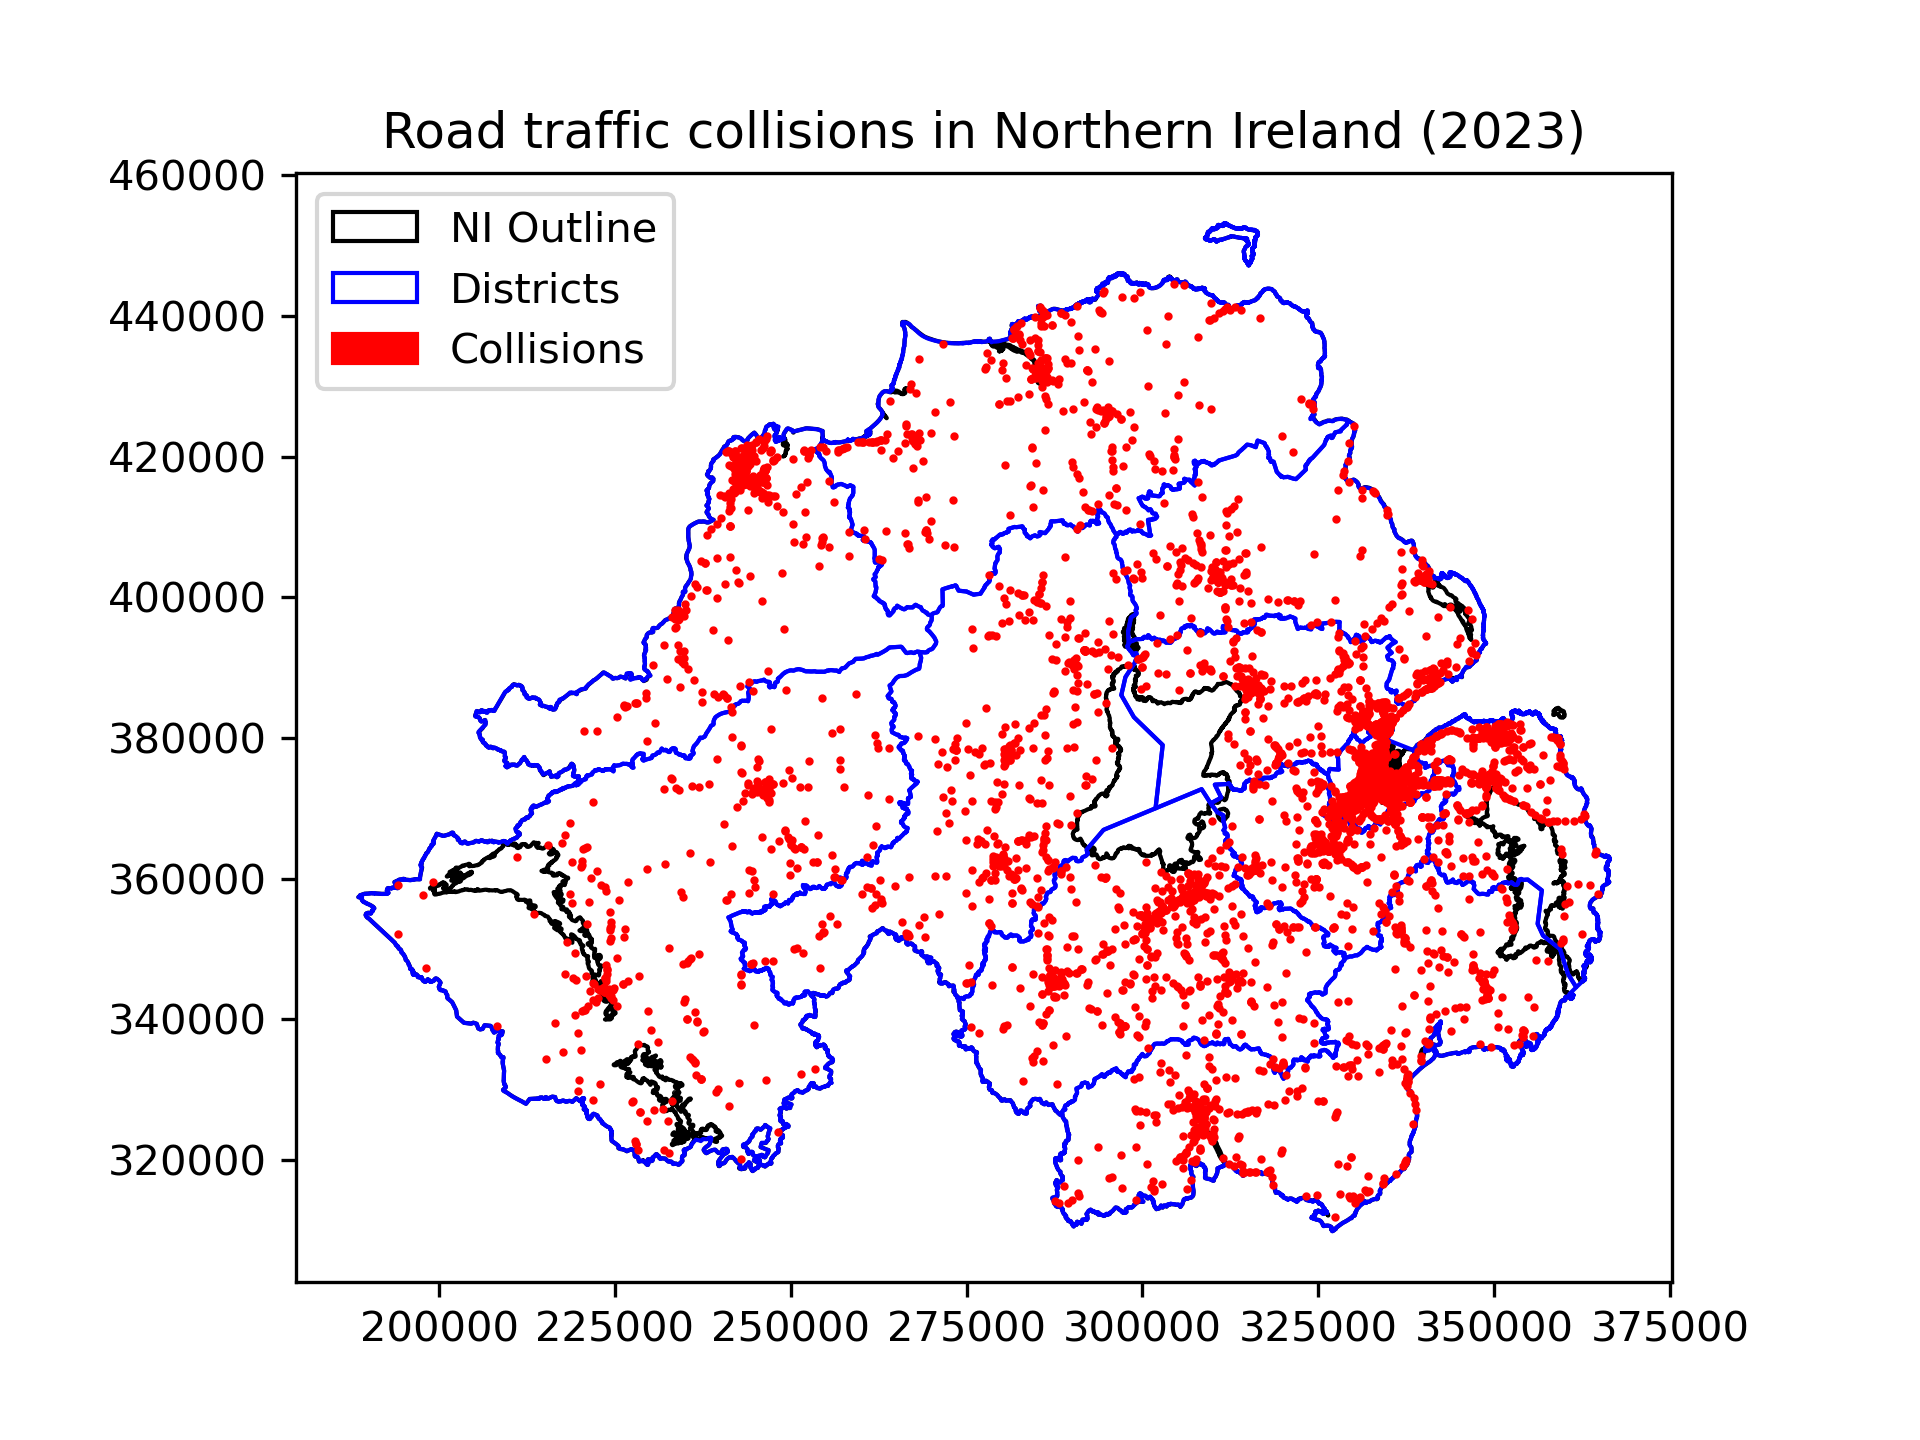
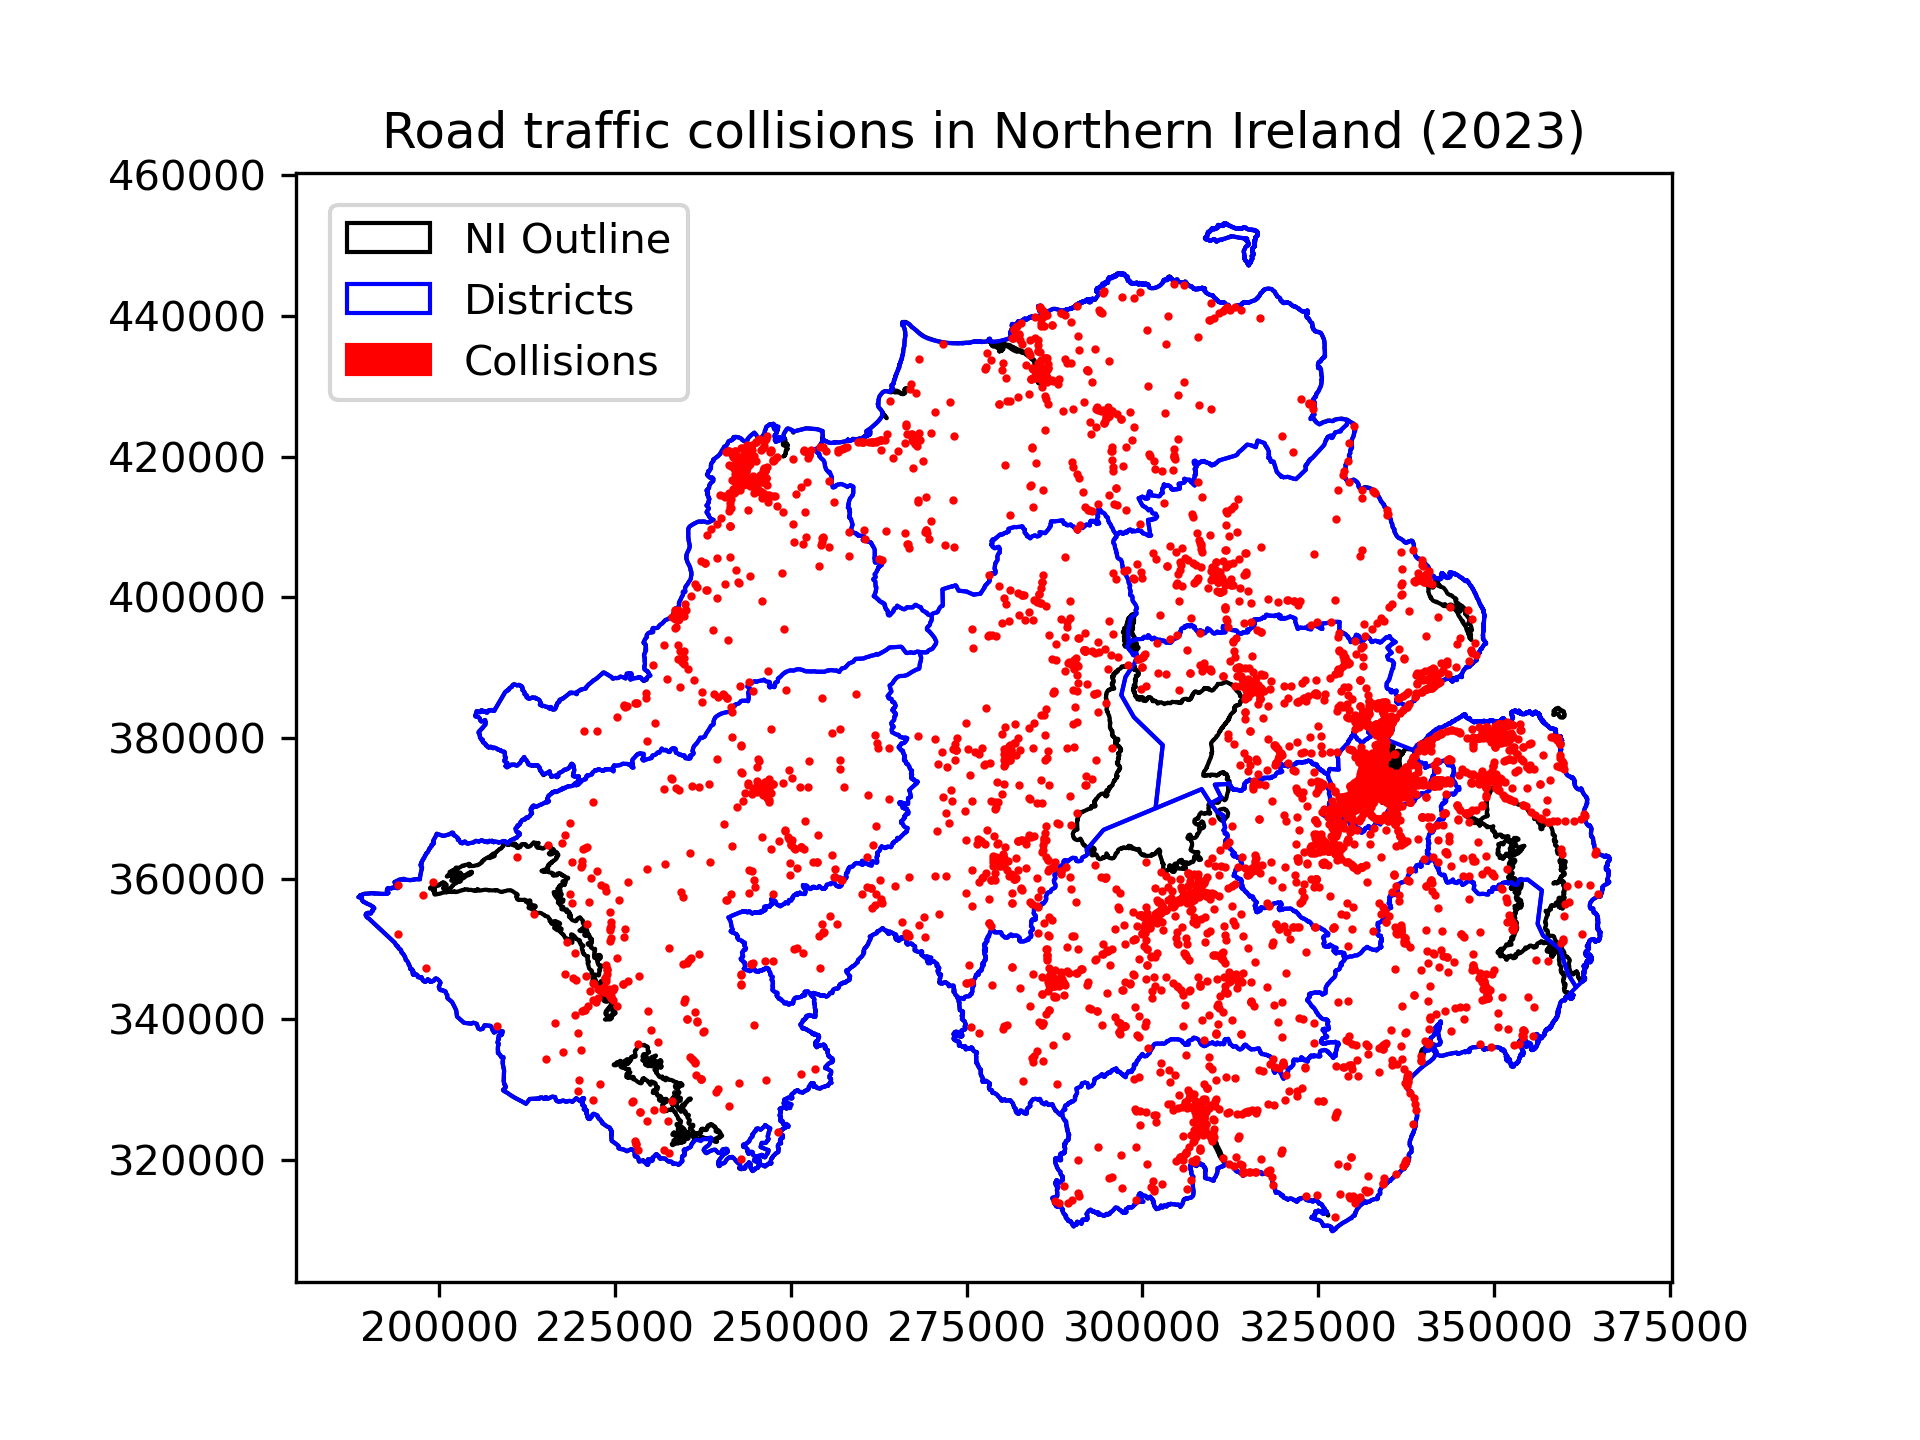
legend
anchor the legend to the left top

Changed region(s): [[0.1562, 0.125, 0.375, 0.2812]]

diff --git a/ni_collision_analysis.py b/ni_collision_analysis.py
@@ -78,7 +78,8 @@ district_patch = mpatches.Patch(edgecolor="blue", facecolor="none", label="Distr
 collision_patch = mpatches.Patch(color="red", label="Collisions")
 
 ax.legend(handles=[outline_patch, district_patch, collision_patch],
-          loc="upper left"
+          loc="upper left",
+          bbox_to_anchor=(0.01, 0.99)
 )
 
 plt.title(f"Road traffic collisions in Northern Ireland ({YEAR})")
